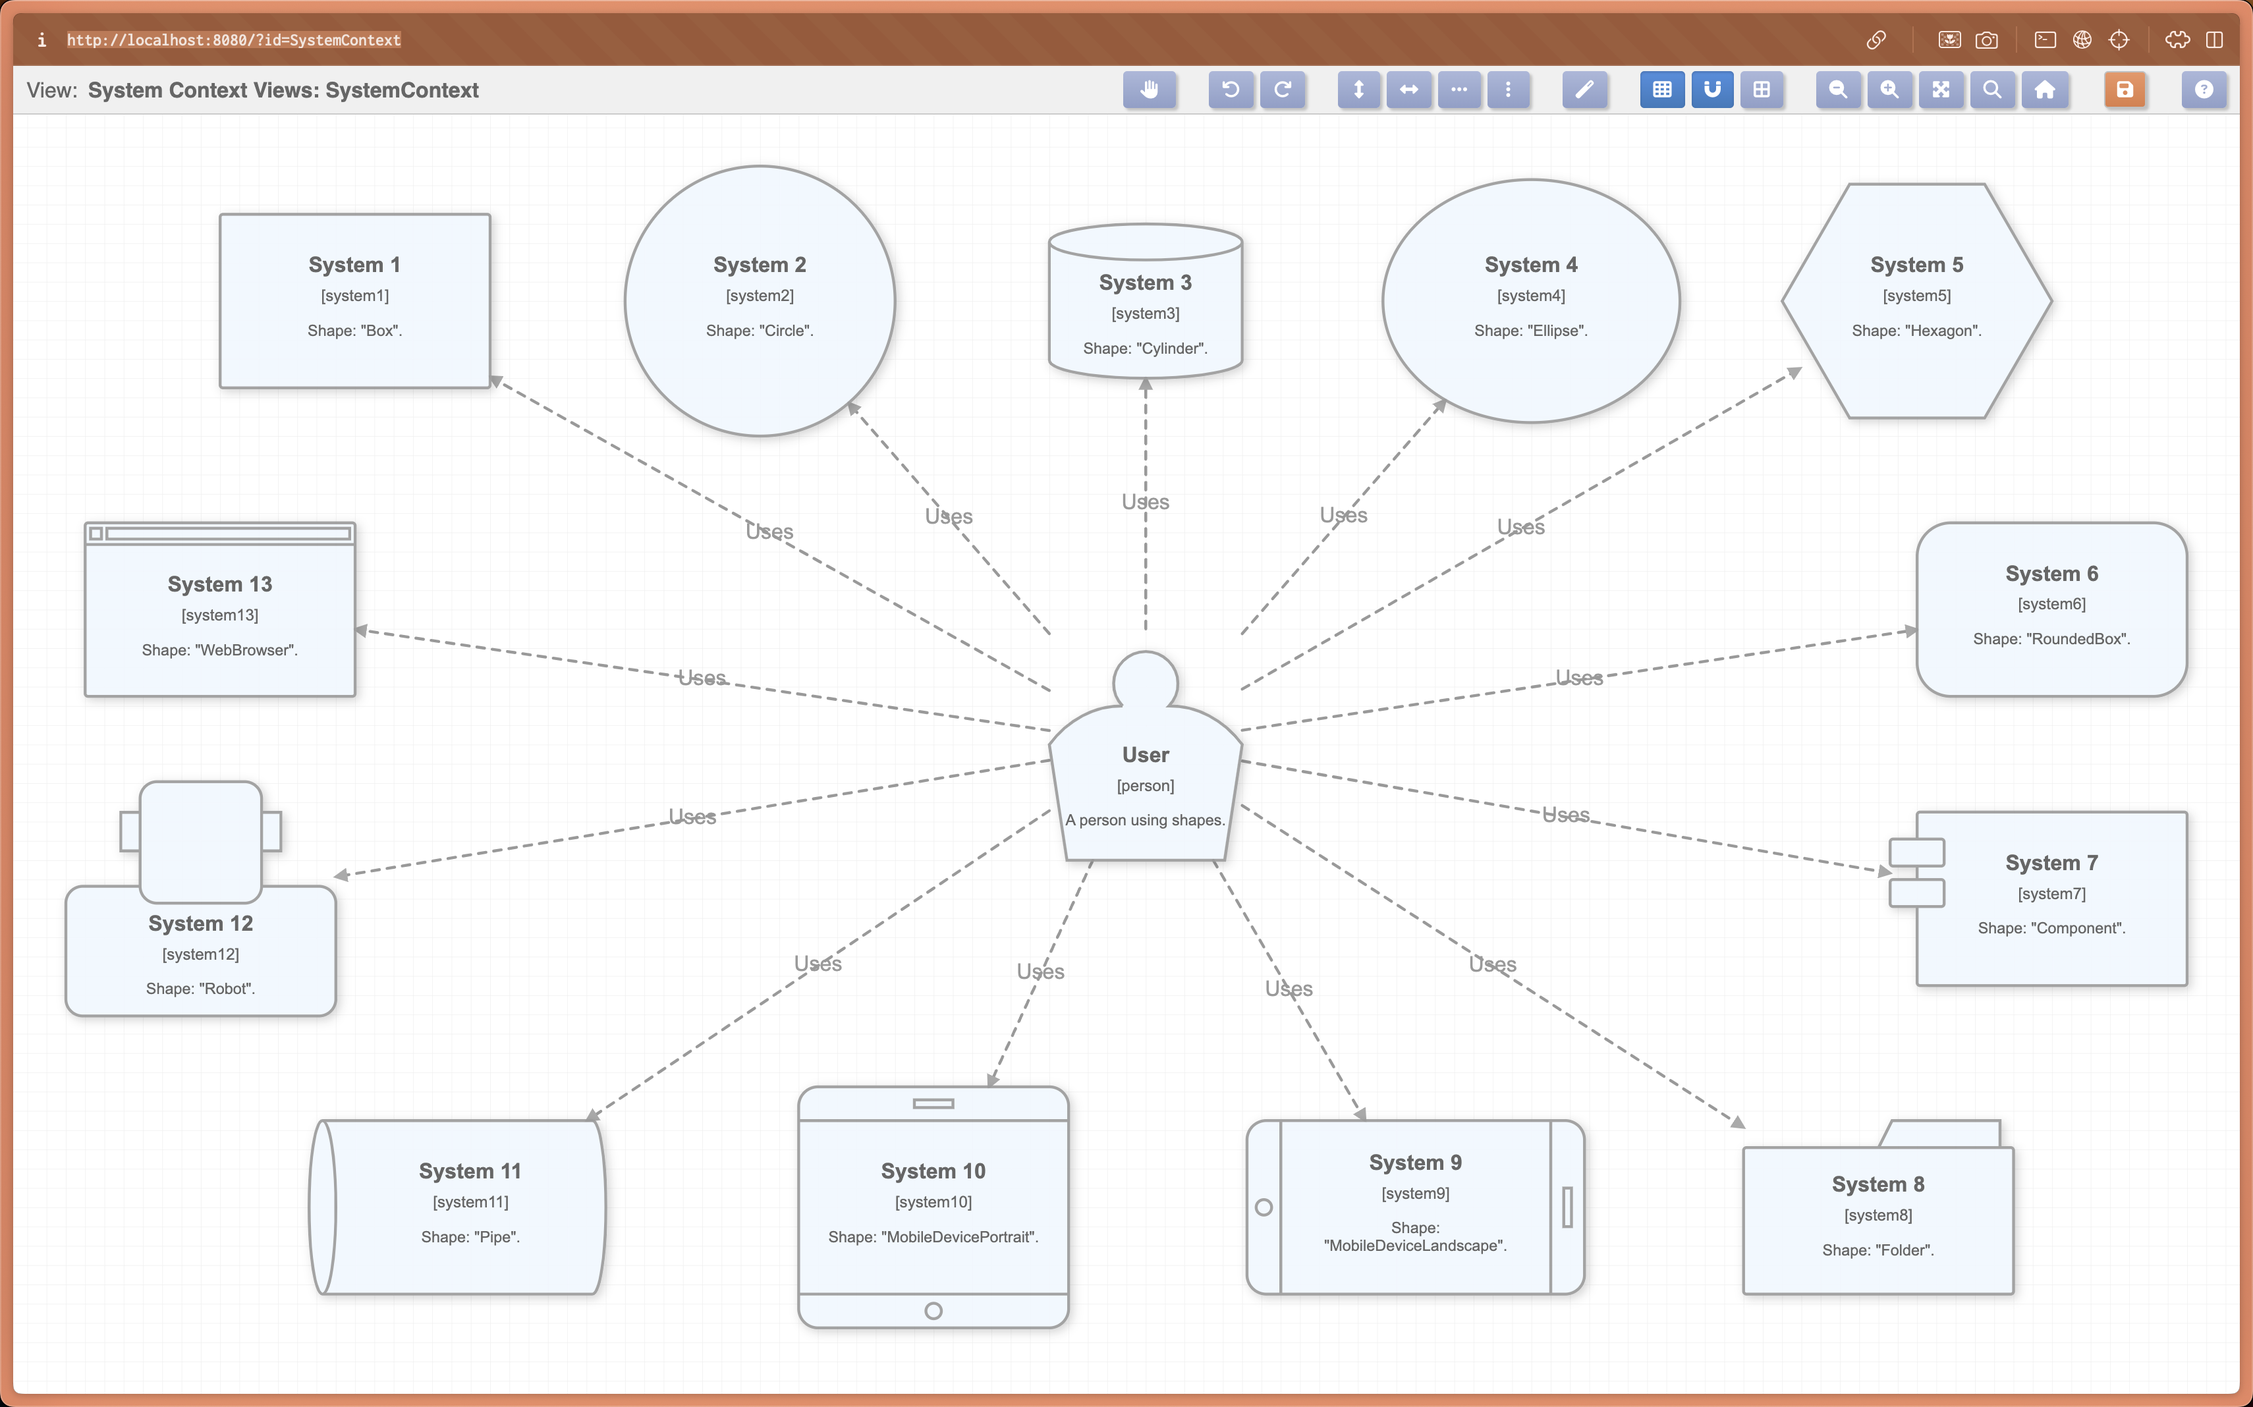
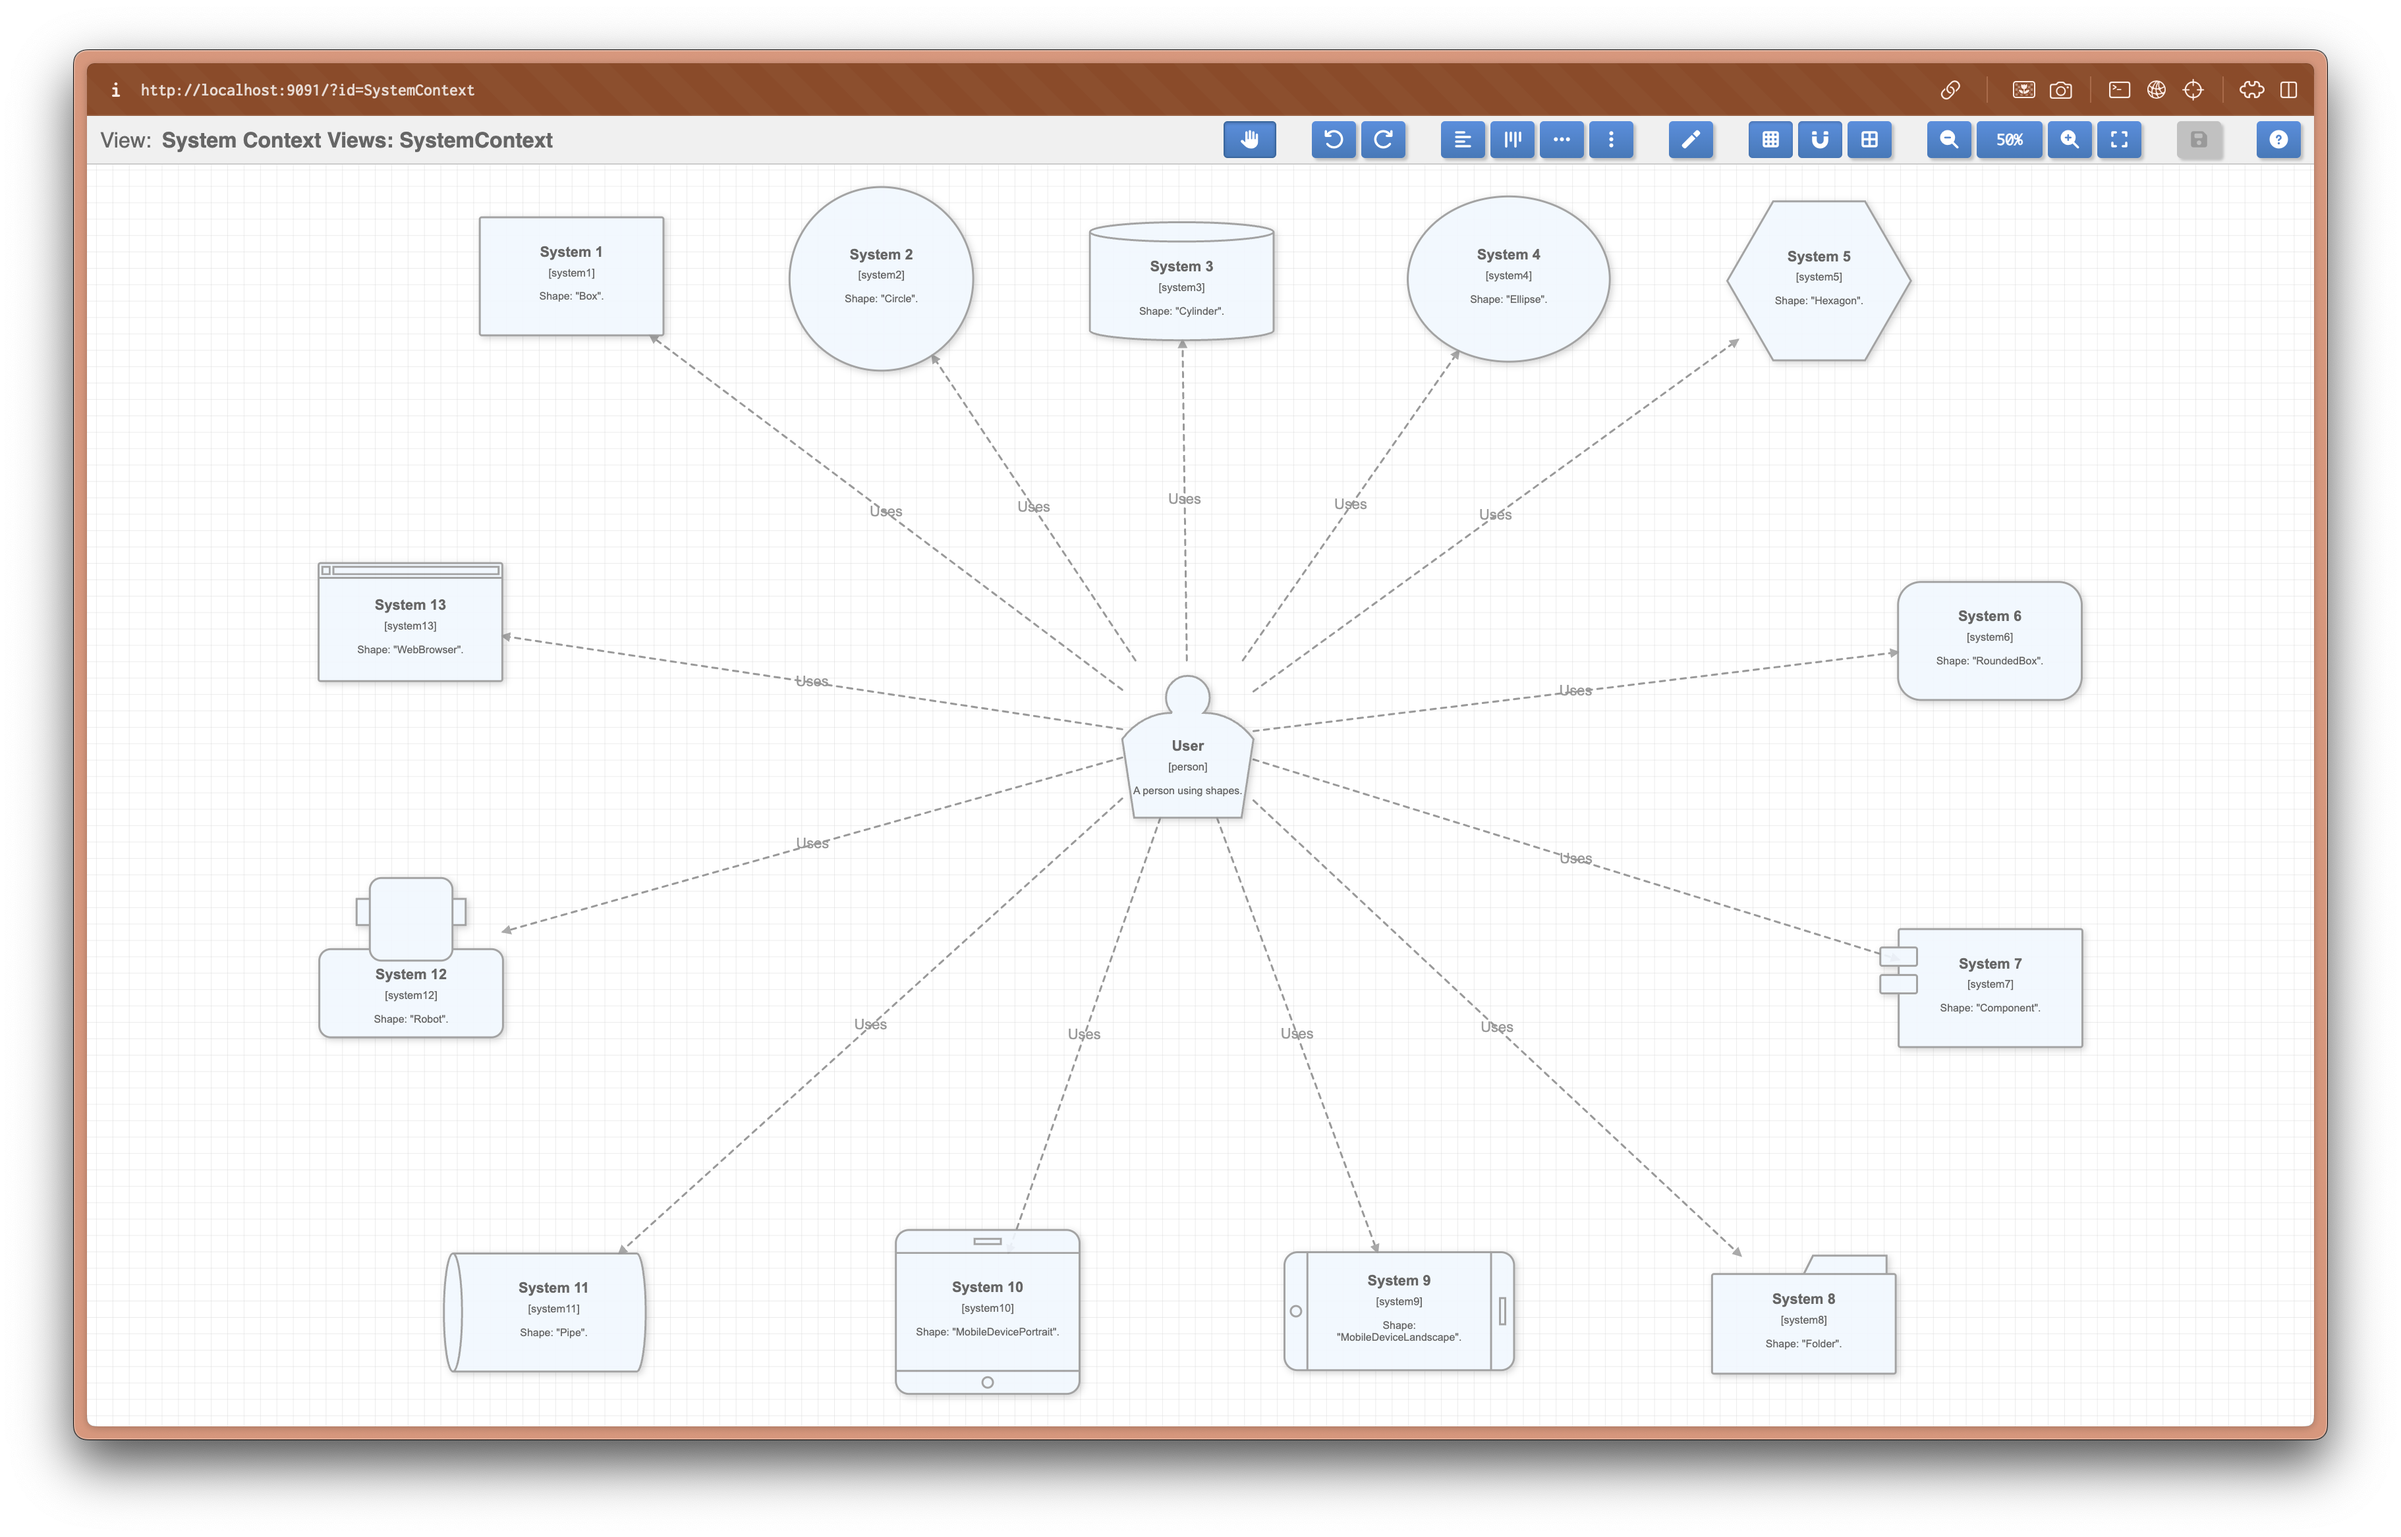
feat(editor): add auto-arrange button and update README
- Introduced a new auto-arrange button with a gradient style for improved UI.
- Updated README to include new keyboard shortcut for inverting drag mode.
- Marked "Better SVG clipping on save" as completed in the features list.

diff --git a/cmd/mdl/webapp/src/style.css b/cmd/mdl/webapp/src/style.css
@@ -186,6 +186,22 @@ button.grp:active {
     background: #d67540;
 }
 
+/* Auto-arrange button with AI purple to blue gradient */
+button.auto-arrange {
+    background: linear-gradient(135deg, #6A4C93, #4a90e2);
+    border-color: #4a4c93;
+}
+
+button.auto-arrange:hover {
+    background: linear-gradient(135deg, #7B5DAD, #5ba0f2);
+    border-color: #5a5ca3;
+}
+
+button.auto-arrange:active {
+    background: linear-gradient(135deg, #593B83, #357abd);
+    border-color: #3a3c83;
+}
+
 select {
     border: 1px solid #ccc;
     background: white;

diff --git a/cmd/mdl/webapp/src/components/Toolbar.tsx b/cmd/mdl/webapp/src/components/Toolbar.tsx
@@ -166,6 +166,7 @@ const LayoutControls: FC<{
   const modKey = getModifierKeyName();
   return (
     <button 
+      className="auto-arrange"
       onClick={onAutoLayout} 
       disabled={layouting} 
       data-tooltip={`Automatically arrange all elements using the Layered algorithm (${modKey}+L)`}

diff --git a/README.md b/README.md
@@ -426,6 +426,7 @@ The editor supports a number of keyboard shortcuts listed below. On Mac, use CMD
 | Move                 | LEFT                       | Move left (grid increment)            |
 | Move                 | SHIFT + LEFT               | Move left (fine - 1 pixel)           |
 | View                 | T                          | Toggle between pan and select mode   |
+| View                 | SHIFT + drag               | Invert drag mode (pan becomes select, select becomes pan) |
 | Alignment            | CTRL + SHIFT + H           | Align selected elements horizontally |
 | Alignment            | CTRL + SHIFT + A           | Align selected elements vertically   |
 | Alignment            | CTRL + ALT + H             | Distribute selected elements horizontally |
@@ -441,7 +442,7 @@ While functional, the editor isn't considered feature complete yet. Here is
 the list of features that will be added in the future:
 
 - [x] Grid system with snap-to-grid functionality
-- [ ] Better SVG clipping on save
+- [x] Better SVG clipping on save
 - [ ] Autolayout on start if no pre-existing layout information
 - [x] Keyboard shortcuts for vertical and horizontal align
 - [ ] Autosave toggle
